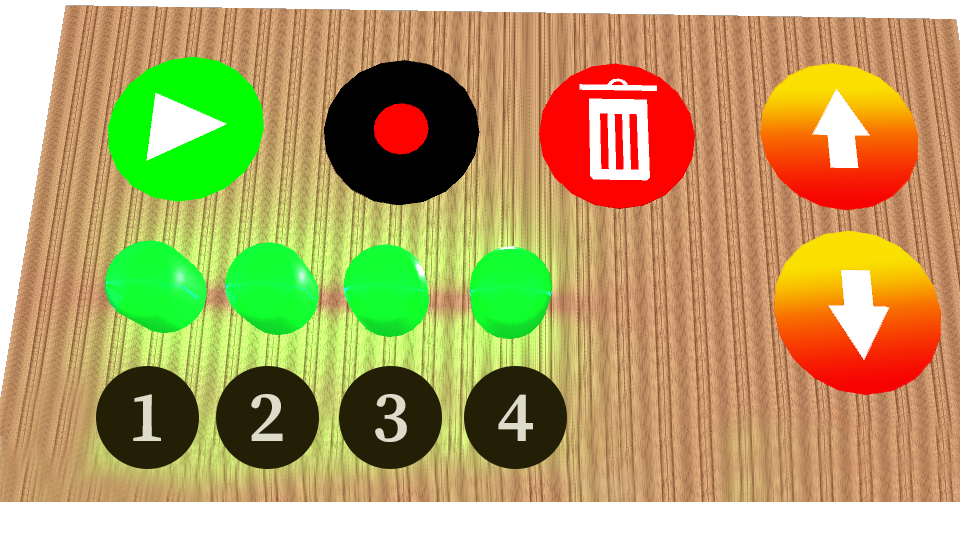
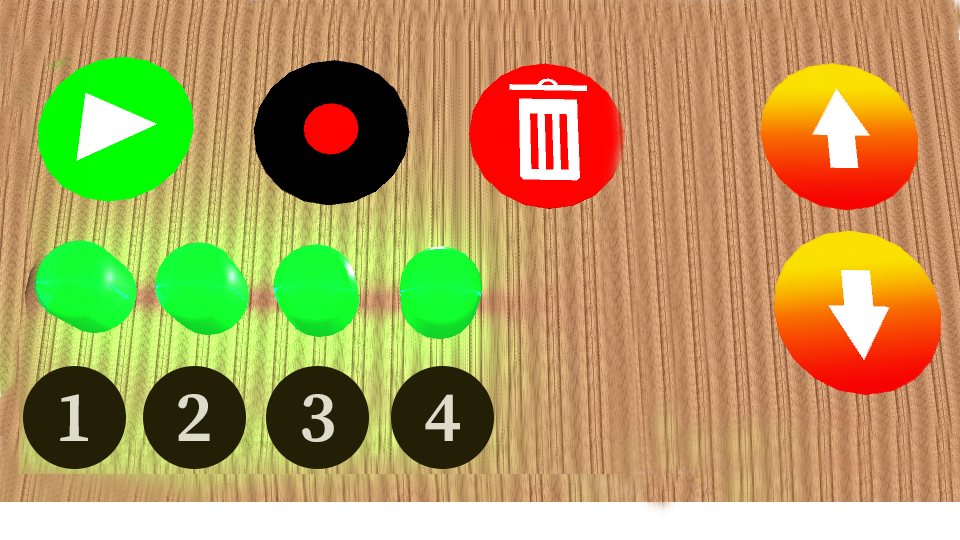
more design

diff --git a/include/Design.tex b/include/Design.tex
@@ -149,13 +149,13 @@ The sequencer functions such as play, record etc., should be settled upon in ord
 	\item reset
 \end{itemize}   
 
-As the tools main purpose for this project, is to facilitate collaboration, it was decided to minimize the number of functionalities to keep the complexion of the tool to a minimum. The functionalities chosen was therefore limited to \textit{play}, \textit{record}, \textit{four sequences}, and \textit{octave up/down}. \textit{Play} and \textit{record}, is the most basic functionalities of, and defines a sequencer. \\
-The sequences, was chosen in order to let the uses make creations longer than four tones (which would be the case if there were only one sequence). The choice of having four sequences relates to the fact that music often builds upon even numbers, for which four is both one of the more common ones \cite{tempo}, and creates room enough for small melodies to be created. \\
+As the tools main purpose for this project, is to facilitate collaboration, it was decided to minimize the number of functionalities to keep the complexion of the tool to a minimum. The functionalities chosen was therefore limited to \textit{play}, \textit{record}, \textit{delete} \textit{four sequences}, and \textit{octave up/down}. \textit{Play}, \textit{delete} and \textit{record}, are the most basic functionalities of, and defines a sequencer. \\
+The sequences functionality, was chosen in order to let the uses make creations longer than four tones (which would be the case if there were only one sequence). The choice of having four sequences relates to the fact that music often builds upon even numbers, for which four is both one of the more common ones \cite{tempo}, and creates room enough for small melodies to be created. \\
 The octave up/down was decided to be implemented even though it could be seen as an additional feature. This is due to the limited number of tones available when "only" having five different fields. By being able to change the octave of the tones, more tones will be available, and therefore enable the possibility to create and replicate melodies which spans over multiple octaves (example of a such song: \textit{"frere jacques"}).
 \\\\
-As it is know known which functions to implement, the control buttons for these can be designed. 
-%  design of buttons,symbols, gradient +, section buttons and nubmers +, number of sequences, placement of buttons, similarity, proximity, 
-
+As it is know known which functions to implement, the control buttons for these can be designed.\\
+The tree most bacis functionalities (play,delete,record) was solely based on the commonly used symbols for same functions (Used in for example \textit{Garage band} \cite{Garageband}). \\The sequences buttons was chosen to be visualized as numbers, as this might signify that the sequence of 1 should be recorded and played before sequence 2, and so forward. To indicate active sequences, an led for each should be lid if the related sequence is active. \\ The octave buttons was designed as arrows pointing in the up and down direction, to indicate the shift towards same. The button designs can be seen in a render of same, in \autoref{fig:buttonDesign}. \\ the placement of the buttons in relation to each other was settled upon using the gestalt principles \cite{gestalt} as guidance. The three main functionalities should be the same size of buttons (similarity\cite{gestalt}), and should be placed close together (proximity\cite{gestalt}).The sequence buttons should be smaller and placed together following the same principles. The LEDs related to the buttons, should also follow the principle of proximity, by being placed close to the buttons, as well as the relating pairs (button and LED) should be placed directly above/under each other - indicating that the given LED relates to the below sequence. \\ The octave buttons follow same principles as the the other groups of buttons - size similarity, and proximity.    
+ 
 
 \begin{figure}[H]
 	\centering
@@ -174,7 +174,7 @@ As it is know known which functions to implement, the control buttons for these 
 
 
 
-Visualizing the tool with all of the design decisions made in this chapter, the final design should resemble \autoref{fig:designFinal}.  
+By visualizing the tool with all of the design decisions made in this chapter, the final design should resemble \autoref{fig:designFinal}. The implementation of the mat will be described in the following chapter \autoref{imp}.  
 \begin{figure}[H]
 	\centering
 	\includegraphics[width=0.7\linewidth]{figure/Design/DesignFinal}
